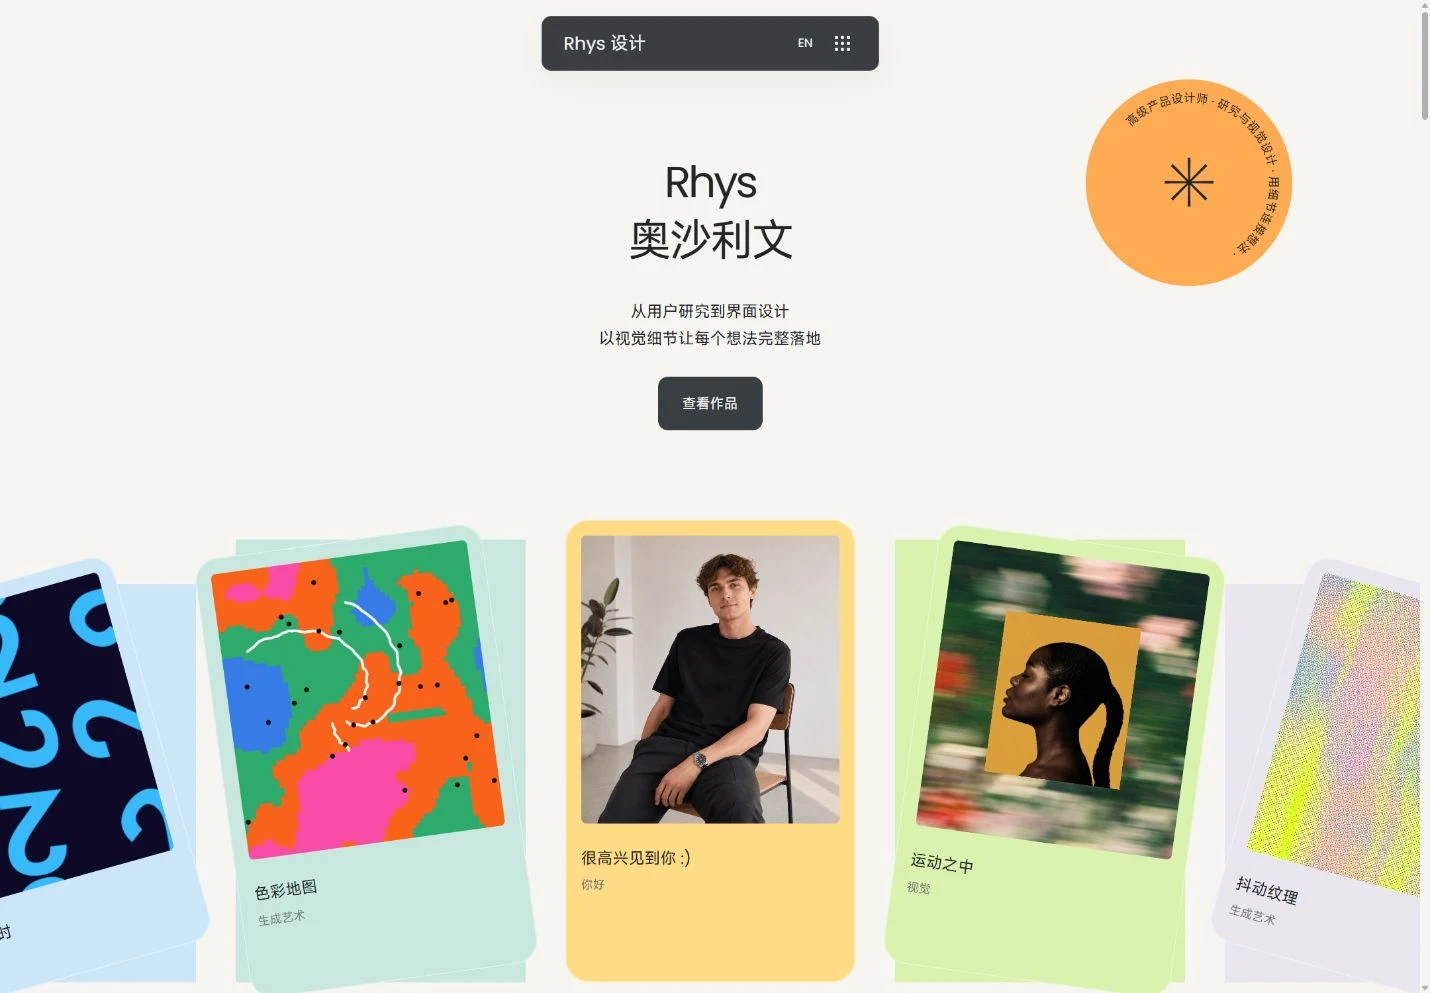
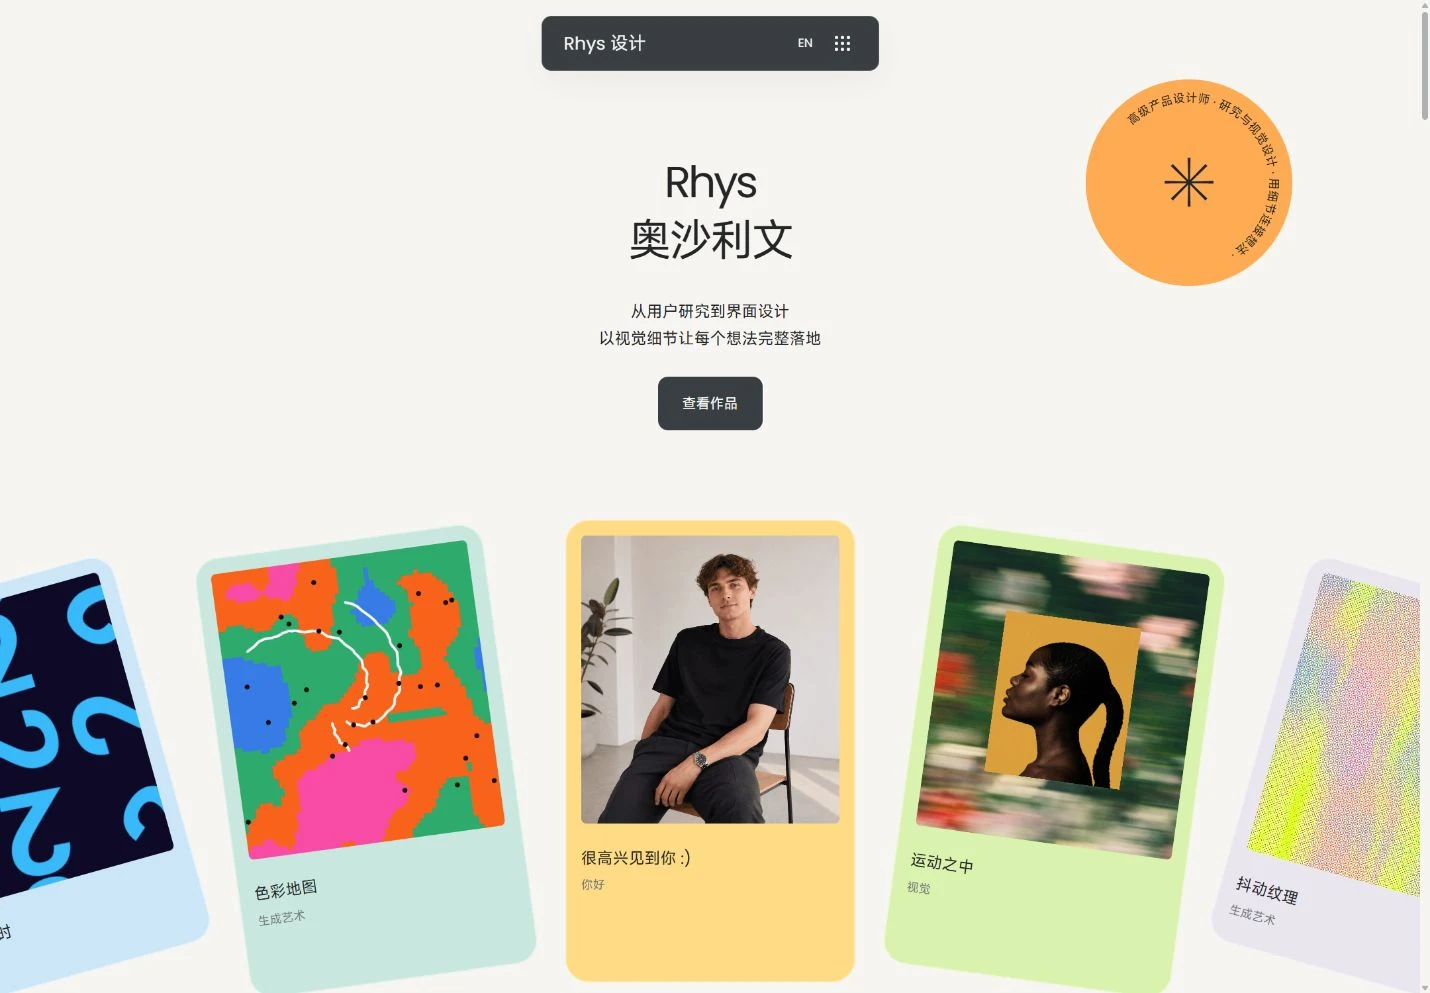
fix: remove duplicate fan card backgrounds

diff --git a/src/features/site-templates/catalog/rhys/theme.css b/src/features/site-templates/catalog/rhys/theme.css
@@ -69,10 +69,10 @@ html[data-rhys-scroll]::-webkit-scrollbar-thumb:hover,[data-template='rhys'] ::-
 [data-template='rhys'] .rhys-fan-card>.rhys-video,[data-template='rhys'] .rhys-fan-card>img{height:290px;width:100%;border-radius:5px;overflow:hidden;pointer-events:none}
 [data-template='rhys'] .rhys-fan-card p{font-size:16px;margin-top:24px;line-height:1.4}
 [data-template='rhys'] .rhys-fan-card small{font-size:12px;color:var(--tpl-muted)}
-[data-template='rhys'] .fan-0{background:var(--tpl-blue);margin-top:65px}
-[data-template='rhys'] .fan-1{background:var(--tpl-mint);margin-top:20px}
-[data-template='rhys'] .fan-3{background:var(--tpl-green);margin-top:20px}
-[data-template='rhys'] .fan-4{background:#e9e6ef;margin-top:65px}
+[data-template='rhys'] .fan-0{margin-top:65px}
+[data-template='rhys'] .fan-1{margin-top:20px}
+[data-template='rhys'] .fan-3{margin-top:20px}
+[data-template='rhys'] .fan-4{margin-top:65px}
 [data-template='rhys'] .rhys-video{position:relative}
 [data-template='rhys'] .rhys-video video{width:100%;height:100%;object-fit:cover}
 [data-template='rhys'] .rhys-video p[role='alert']{position:absolute;bottom:0;background:var(--tpl-paper);font-size:12px}

diff --git a/.tpl/README.md b/.tpl/README.md
@@ -1,6 +1,6 @@
 # Rhys 使用入口
 
-协议 `git-template` 0.2.0，模板版本 1.0.1。元数据在 `template.json`，运行合同在 `project.json`，修改入口在 `customization.json`。这些资料不会自动执行代码或安装依赖。
+协议 `git-template` 0.2.0，模板版本 1.0.2。元数据在 `template.json`，运行合同在 `project.json`，修改入口在 `customization.json`。这些资料不会自动执行代码或安装依赖。
 
 根 README 说明安装、启动、停止与检查。完整规则：
 
